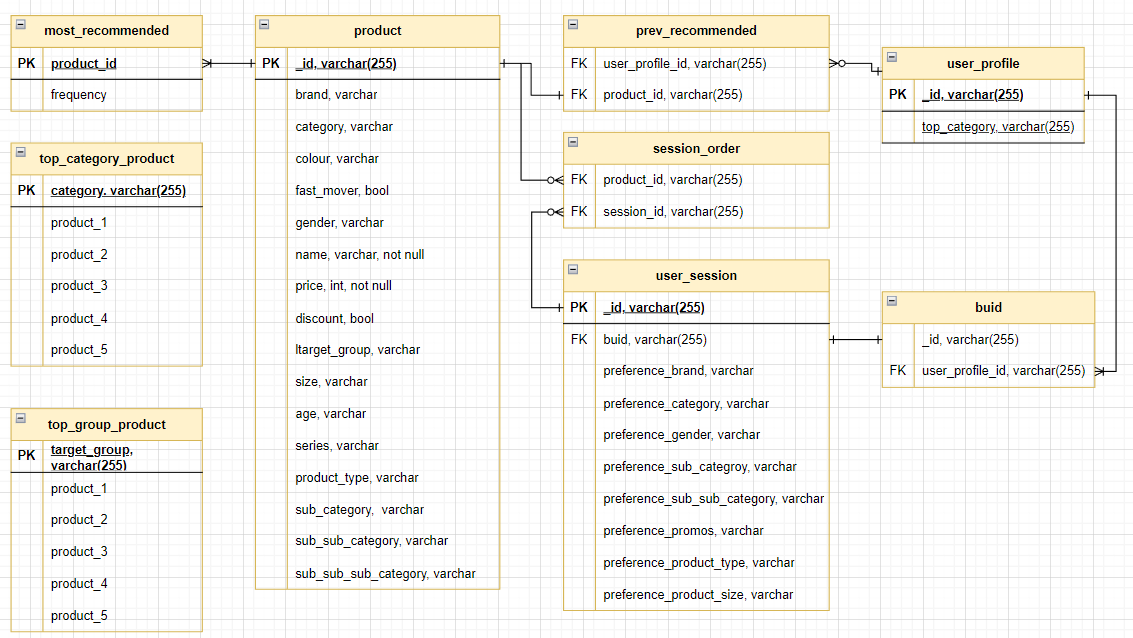
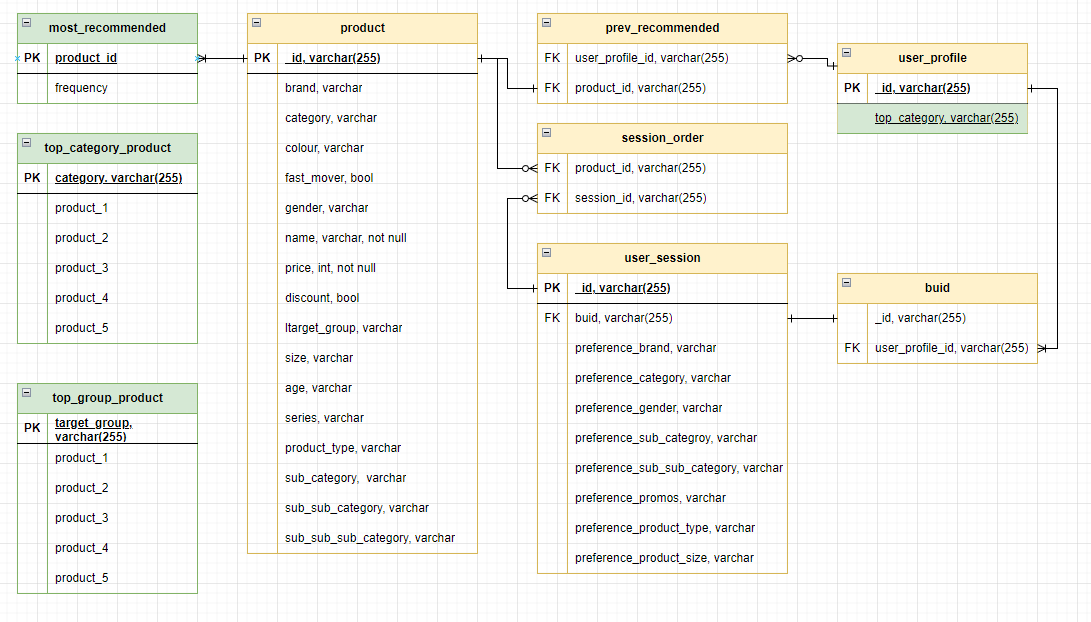
See description
Updated ERD for more clarity on what is new, added the start of AR language to the readme

Changed region(s): [[0.0, 0.0, 0.9973, 0.9775], [0.0, 0.6109, 0.187, 1.0], [0.0, 0.2138, 0.187, 0.5804]]

diff --git a/readmeFA3.md b/readmeFA3.md
@@ -6,6 +6,7 @@ This code use a rule-based system to create some information in the relational d
 
 - [Usage](#usage)
 - [Explanation](#explanation)
+- [AR](#ar)
 - [Contact](#contact)
 
 ## Usage
@@ -19,6 +20,23 @@ The content filter looks at the target_group of a specific product and recommend
 
 ### collaborative filter
 The collaborative filter looks at all sessions the profile has done before and what the preference_category was from each of those sessions to find one category that the user likes the most. From this category 4 products are taken that have been recommended most. And here again, if there are less than 4 products in this table from this category, other products that are most previously recommended are added to the output list.
+
+## AR
+
+This paragraph will contain the theoretical notation learned in AR for the data-collection for the new tables and rows created *highlighted green in the [Entity Relation Diagram](./ERD.png)*
+
+### Most_recommended
+```
+P = verzameling van alle producten
+R = verzameling van alle keren dat een product is aangeraden
+n = #(R)
+
+F(p) = ∑_{i=1}^{n} (p∈R_i) = voor product p, tel alle keren dat het is aangeraden
+
+∀x ∈ P : F(x)
+```
+
+
 
 ## Contact
 
